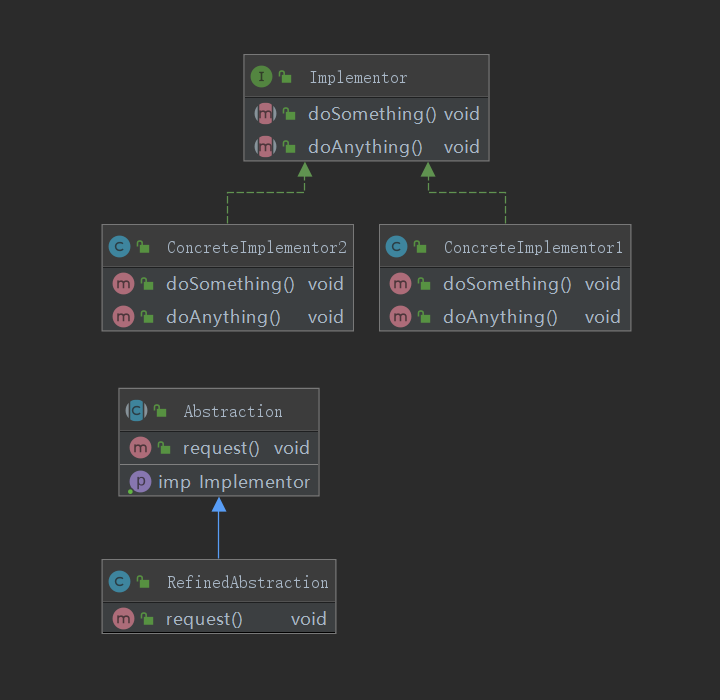
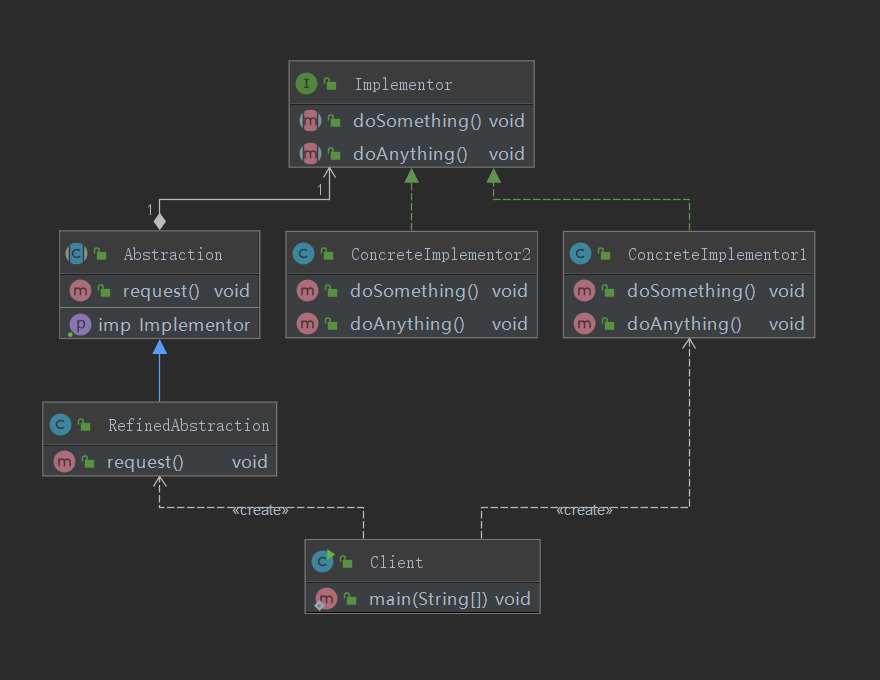
2020-03-26

diff --git a/_posts/2020-03-26-java-design-pattern-command.md b/_posts/2020-03-26-java-design-pattern-command.md
@@ -1,0 +1,140 @@
+---
+title: Java设计模式——命令模式
+date: 2020-03-26
+categories:
+- tech
+tags:
+- java
+- design pattern
+---
+
+命令模式(Command)：将一个请求封装为一个对象，从而让我们可用不同的请求对客户进行参数化；对请求排队或者记录请求日志，以及支持可撤销的操作。命令模式是一种对象行为型模式，其别名为动作(Action)模式或事务(Transaction)模式。
+
+<!-- more -->
+
+命令模式的核心在于引入了命令类，通过命令类来降低发送者和接收者的耦合度，请求发送者只需指定一个命令对象，再通过命令对象来调用请求接收者的处理方法，其结构如图所示：
+
+![](/assets/upload/2020-03/1585187529.png)
+
+在命令模式结构图中包含如下几个角色：
+
++ Command（抽象命令类）：抽象命令类一般是一个抽象类或接口，在其中声明了用于执行请求的execute()等方法，通过这些方法可以调用请求接收者的相关操作。
+
++ ConcreteCommand（具体命令类）：具体命令类是抽象命令类的子类，实现了在抽象命令类中声明的方法，它对应具体的接收者对象，将接收者对象的动作绑定其中。在实现execute()方法时，将调用接收者对象的相关操作(Action)。
+
++ Invoker（调用者）：调用者即请求发送者，它通过命令对象来执行请求。一个调用者并不需要在设计时确定其接收者，因此它只与抽象命令类之间存在关联关系。在程序运行时可以将一个具体命令对象注入其中，再调用具体命令对象的execute()方法，从而实现间接调用请求接收者的相关操作。
+
++ Receiver（接收者）：接收者执行与请求相关的操作，它具体实现对请求的业务处理。
+
+## 命令模式的实现
+
+抽象命令类
+```
+public abstract class Command {
+    //每个命令类都必须有一个执行命令的方法
+    public abstract void execute();
+}
+```
+
+具体命令类
+```
+public class ConcreteCommand1 extends Command {
+    //也对那个Receiver类进行命令处理
+    private Receiver receiver;
+    
+    //构造函数传递接收者
+    public ConcreteCommand1(Receiver _receiver){
+        this.receiver = _receiver;
+    }
+    
+    //每个具体的命令都必须实现一个命令
+    public void execute() {
+        //业务处理
+        this.receiver.doSomething();
+    }
+}
+public class ConcreteCommand2 extends Command {
+    //也对那个Receiver类进行命令处理
+    private Receiver receiver;
+    
+    //构造函数传递接收者
+    public ConcreteCommand2(Receiver _receiver){
+        this.receiver = _receiver;
+    }
+    
+    //每个具体的命令都必须实现一个命令
+    public void execute() {
+        //业务处理
+        this.receiver.doSomething();
+    }
+}
+```
+
+接收者
+```
+public abstract class Receiver {
+    //抽象接收者，定义每个接收者都必须完成的业务
+    public abstract void doSomething();
+}
+
+public class ConcreteReciver1 extends Receiver{
+    //每个接受者都必须处理一定的业务逻辑
+    public void doSomething(){
+        
+    }
+}
+public class ConcreteReciver2 extends Receiver{
+    //每个接受者都必须处理一定的业务逻辑
+    public void doSomething(){
+        
+    }
+}
+```
+
+调用者
+```
+public class Invoker {
+    private Command command;
+    //受气包，接受命令
+    public void setCommand(Command _command){
+        this.command = _command;
+    }
+    
+    //执行命令
+    public void action(){
+        this.command.execute();
+    }
+}
+```
+
+调用过程
+```
+public class Client {
+    public static void main(String[] args) {
+        //首先声明出调用者Invoker
+        Invoker invoker = new Invoker();
+        
+        //定义接收者
+        Receiver receiver = new ConcreteReciver1();
+        
+        //定义一个发送给接收者的命令
+        Command command = new ConcreteCommand1(receiver);
+        
+        //把命令交给调用者去执行
+        invoker.setCommand(command);
+        invoker.action();
+    }
+}
+```
+
+## 命令模式的适用场景 
+
++ 涉及到“命令”、“操作”或者“控制”的场景，一般都是命令模式的适用场景。
+
+## 命令模式的优缺点
+
++ 优点：
+	+ 将请求调用者和执行者解耦，适用于底层接口封装，可以通过只增加类就可以实现接口扩展，不需要修改原来的代码。
+
++ 缺点：
+	+ 如果存在较多的命令或者请求，需要较多的命令类。

diff --git a/_posts/2020-02-27-IDEA-common-setting.md b/_posts/2020-02-27-IDEA-common-setting.md
@@ -12,12 +12,15 @@ Intellij IDEA常用配置及快捷键
 ## 显示实体类的属性注释
 Settings -> Editor -> General -> Show quick documentation on mouse move
 
+## 去除UML类图中多余的依赖线
+Settings -> Tools -> Diagrams -> Show Usages
+
 ## 禁止检测更新
 Settings -> Appearance & Behavior -> System Settings -> Updates
 
 ## 常用快捷键
 + Shift + Shift 可在一个弹出框中搜索任何东西，包括类、资源、配置项、方法等等。
-+ Ctrl+Tab 切换文件
++ Ctrl + Tab 切换文件
 
 ## 设置IDEA快捷键为Eclipse风格
 

diff --git a/_posts/2018-03-13-树莓派系统安装.md b/_posts/2018-03-13-树莓派系统安装.md
@@ -312,3 +312,13 @@ Added user pi.
 Win + R 运行： \\10.10.10.103 (你的树莓派IP地址)
 #### 映射网络驱动器  
 \\10.10.10.103\share
+
+### VeraCrypt
+     
+[Raspbian (Raspberry Pi ARMv7): veracrypt-1.19-raspbian-setup.tar.bz2 (6.7 MB)](https://launchpad.net/veracrypt/trunk/1.19/+download/veracrypt-1.19-raspbian-setup.tar.bz2)
+
+```
+# 安装
+pi@raspberrypi:~ $ sudo tar -jxvf veracrypt-1.19-raspbian-setup.tar.bz2 -C /tmp
+pi@raspberrypi:~ $ sudo bash /tmp/veracrypt-1.19-setup-console-armv7
+```
